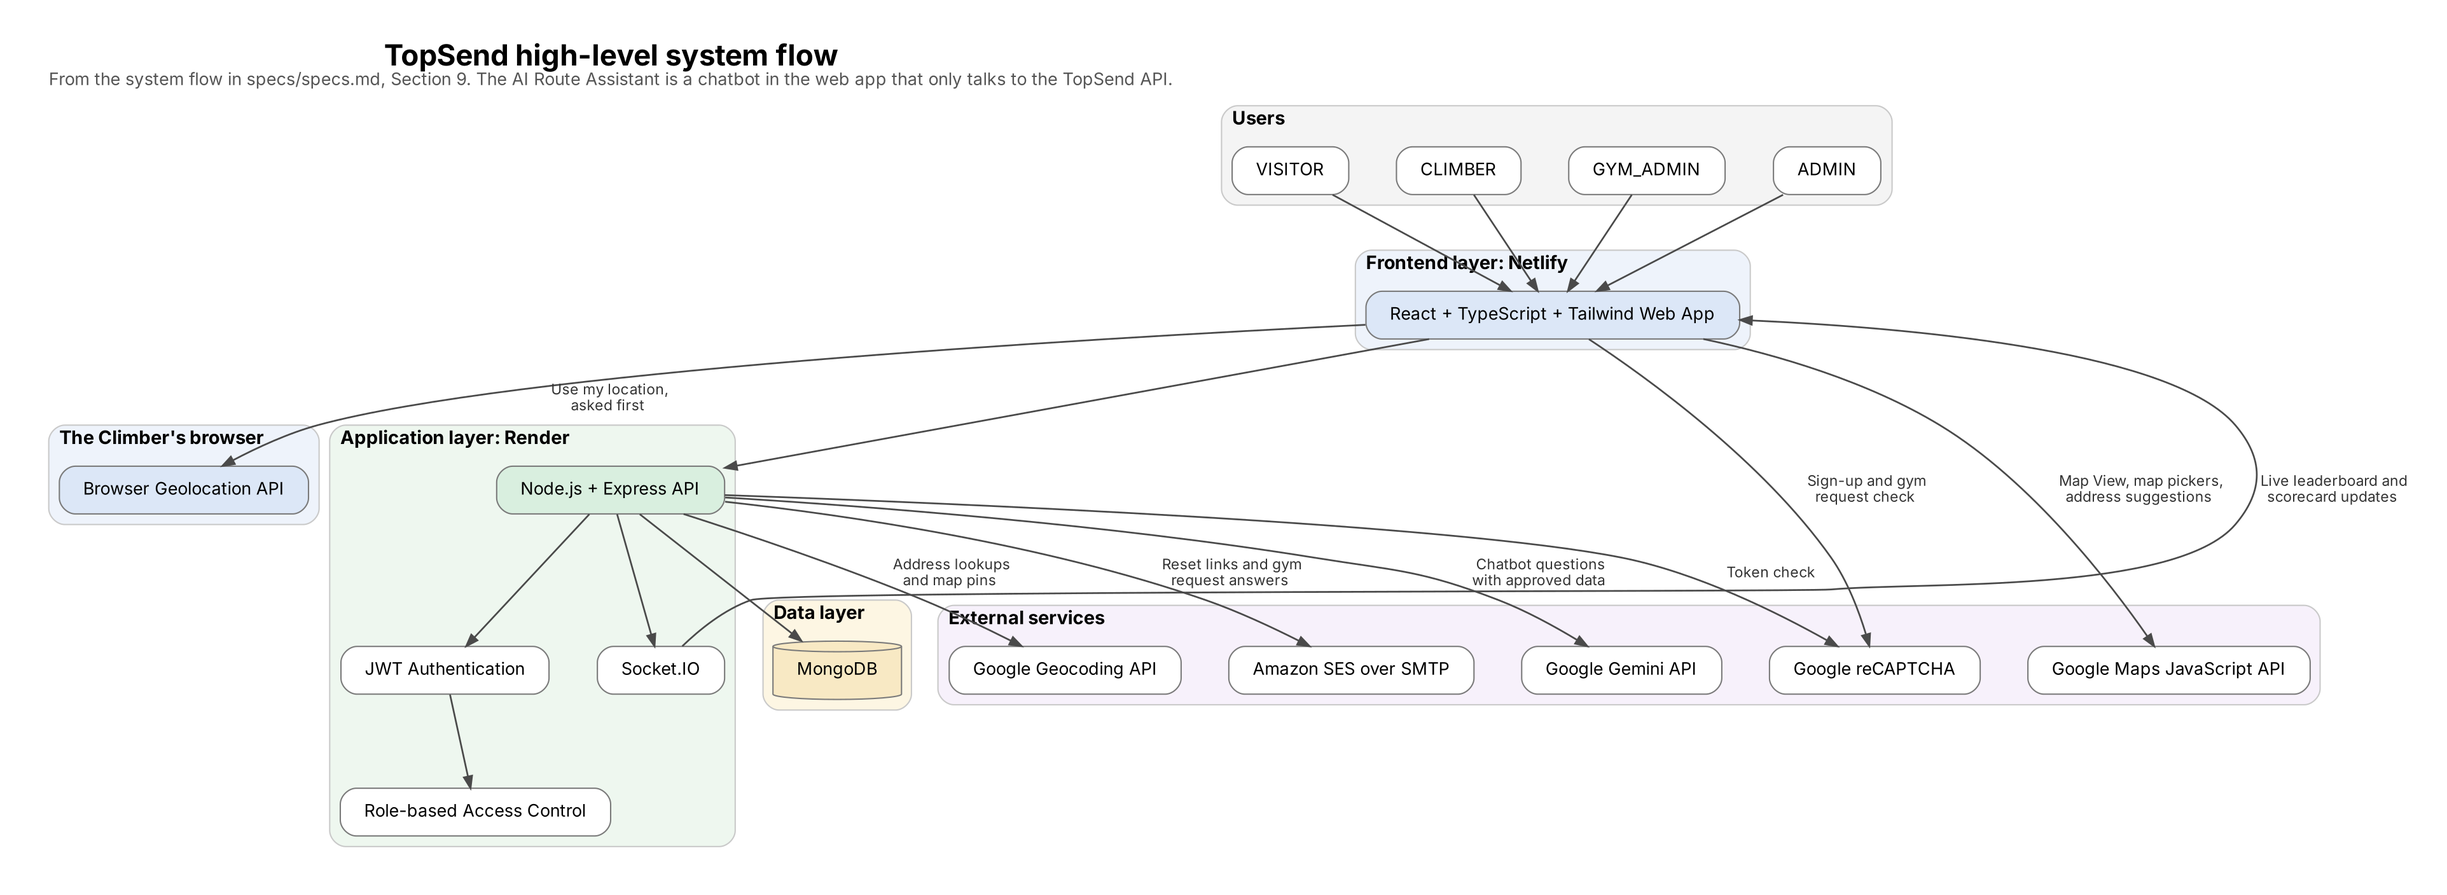
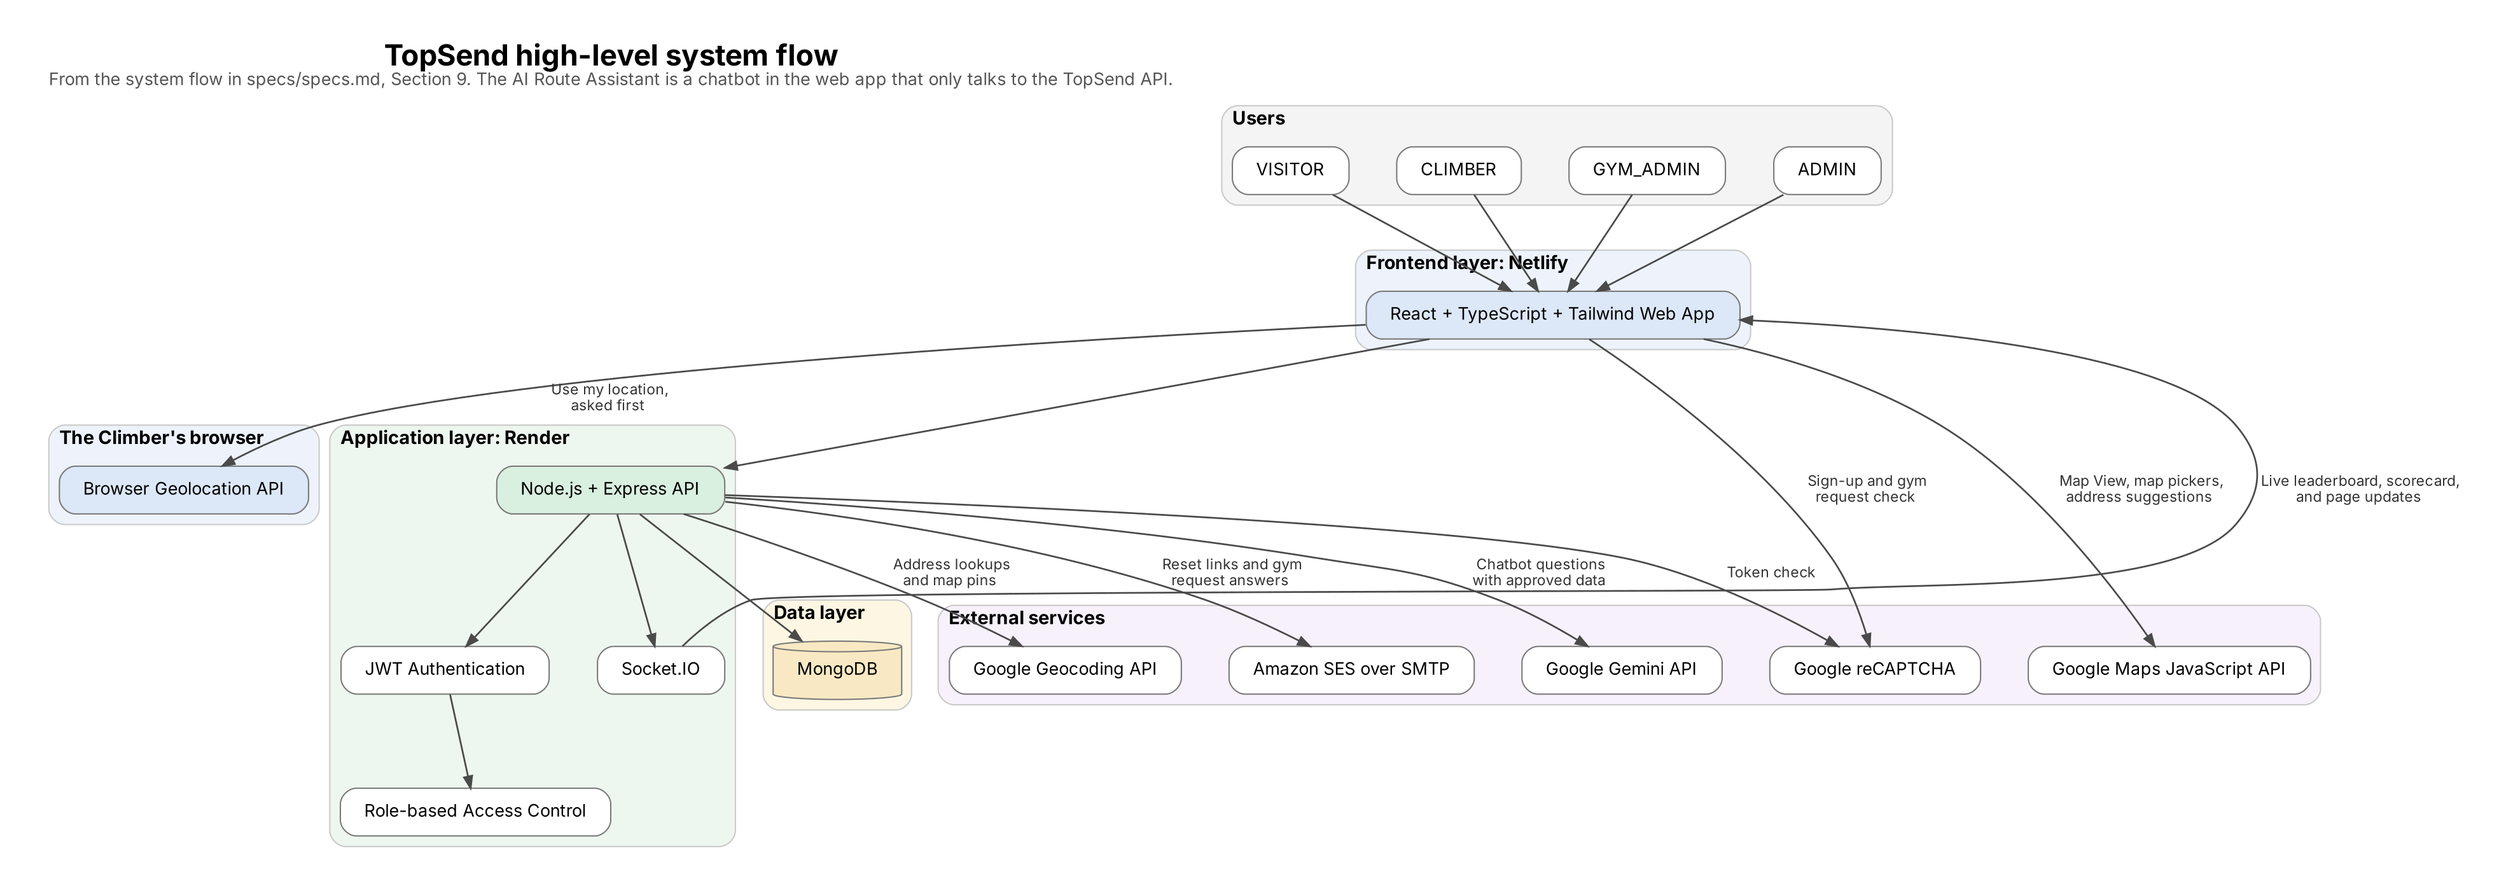
docs: specify the live page updates and the pages without a Refresh button (#224)

diff --git a/specs/specs.md b/specs/specs.md
@@ -268,7 +268,7 @@ The project has 12 approved functional requirements, aligned to the requirement 
 | NR-001 | Performance | TopSend pages and normal user actions shall respond within acceptable times during regular use. | Page-load and common action tests | 95% of page loads and normal actions within 3 seconds, excluding unavailable third-party services | 95% |
 | NR-002 | Security | Authenticated features and user credentials shall be protected from unauthorized access. | Authorization, password, and location checks | 100% of protected-page authorization tests pass; passwords are not stored in plain text; a Climber's current location is only used for the search that asks for it, and is never stored, logged, or put in the page address | 100% |
 | NR-003 | Google Maps reliability | The Competition Map View shall remain usable even when Google Maps data is loading or unavailable. | Map service failure simulation | The map shall display markers or a clear loading/error state within 5 seconds; the list view remains available | 99% |
-| NR-004 | Data integrity | Competition registrations, official results, scores, and rankings shall remain accurate when saved or when a save fails. | Save/refresh and transaction tests | No partial or duplicate record after a failed save; leaderboard and scorecard values match the latest valid official results | 99.9% |
+| NR-004 | Data integrity | Competition registrations, official results, scores, and rankings shall remain accurate when saved or when a save fails, and every logged-in page shall show the latest saved data without a refresh button. | Save, live update, and transaction tests | No partial or duplicate record after a failed save; leaderboard and scorecard values match the latest valid official results; after a save, every open page that shows the changed data, for a user allowed to see it, reloads it by itself within 3 seconds, keeps showing what it had while it reloads, and never reloads over input that isn't saved | 99.9% |
 | NR-005 | Usability | TopSend shall remain usable on common desktop, tablet, and mobile screen sizes. | Responsive layout testing | Core pages shall work at around 360px mobile, 768px tablet, and 1440px desktop without horizontal scrolling. On phones (screens under 768px wide), the logged-in pages show their text and controls 15% smaller than on larger screens, with no text under 11px and form fields at 16px. On screens 768px wide and wider, every logged-in user can collapse the sidebar to a slim strip with the TopSend mark and open it again, and the browser keeps that choice until they log out. On phones, the sections that come before a page's main content fold into a bar that opens and closes: the competition's details and the Climber's totals above the scorecard sheet, the sheet's own details, and the competition's details above a leaderboard's standings. They start folded, the browser keeps each choice until the user logs out, and nothing folds on screens 768px wide and wider. The circles a Climber taps to record attempts are at least 44px wide and tall on a phone | 100% |
 | NR-006 | Maintainability / error handling | Application errors shall be handled consistently and logged without exposing sensitive technical details to users. | Error handling and logging checks | User-facing errors are readable; server logs include timestamps and operation context; stack traces and sensitive technical details are not exposed to normal users | 100% |
 
@@ -293,6 +293,8 @@ The project has 12 approved functional requirements, aligned to the requirement 
 - A Climber records their own results from the competition's start time until its end time. After the end time, the server refuses them, and their results are final.
 - A Climber's attempts on a problem are recorded on its circles, one for each attempt the competition allows. Marking a circle counts that attempt and every one before it. A top is always the last marked circle, and a problem with a top takes no more attempts until the Climber clears the top.
 - From a published competition's end time, a Climber's scorecard is closed for good: the server refuses it, the page moves the Climber to the final leaderboard, and going back, opening its address, or reloading doesn't bring it back. The leaderboard stays open, and a Climber's final leaderboard shows every division. A Climber is warned 15 minutes and 5 minutes before the end. A cancelled competition's scorecard stays readable, since it has no final results.
+- No page has a refresh button. The scorecard and the leaderboard update live, and every other logged-in page reloads what it shows by itself when a save changes it. The server only tells a page what kind of data changed, never the data, and only tells the roles whose pages show it, so the page reads the data again through the API, with the user's own access. A page never reloads over input that isn't saved, or while a change is being confirmed or saved: it waits, and reloads once it's free. When a save can't be confirmed, its message offers to load the saved data.
+- A read a page makes by itself, after a change was announced, doesn't count as the user's activity, so a session left open on a page still ends after 60 minutes without activity.
 - The AI Route Assistant is only offered inside the pages listed in FR-012. It gets the least data the page's questions need, and never a name, an email, an ID, a password, a token, an API key, or a setting of the server.
 - The onboarding tutorial opens by itself once per account, not once per device: the account remembers when its user finished or skipped it. An account created before the tutorial existed sees it once, the next time its user opens TopSend. Reopening it from Onboarding tips changes nothing.
 
@@ -416,7 +418,7 @@ TopSend uses a three-layer structure:
 
 - JWT-based authentication protects protected routes and session handling.
 - RBAC restricts access to ADMIN, GYM_ADMIN, and CLIMBER features based on the assigned role.
-- Socket.IO sends real-time updates to live leaderboards and scorecards.
+- Socket.IO sends real-time updates to live leaderboards and scorecards, and tells every logged-in page what kind of data changed, so the page reloads it through the API. That message carries no data, and a role is only told about the data its pages show.
 - The browser loads the Google Maps JavaScript API with the browser key, for the Map View, the map pickers, and address suggestions. The backend calls Google's Geocoding API with the server key, for address lookups and for pinning competitions whose gym has no map pin.
 - When a Climber chooses Use my location on Discover competitions, the browser's Geolocation API asks them first. The web app rounds the location to about 110 m, uses it for up to 10 minutes, keeps it only in memory until the browser is asked again or the Climber logs out, and sends it only with that search. It's never stored, logged, or put in the page address, and the API answers competition searches with `Cache-Control: no-store`, so browsers don't keep them either.
 - Google reCAPTCHA checks Climber sign-up and the gym request form: the browser shows the check, and the backend verifies its token.
@@ -458,7 +460,7 @@ flowchart TB
     API --> AUTH
     AUTH --> RBAC
     API --> SOCKET
-    SOCKET -->|Live leaderboard and scorecard updates| UI
+    SOCKET -->|Live leaderboard, scorecard, and page updates| UI
     API --> DB
     API -->|Address lookups and map pins| GEO
     API -->|Token check| CAPTCHA
@@ -738,6 +740,7 @@ A VISITOR has no account, so VISITOR is never stored as a role.
 - The AI Route Assistant is reached only through the TopSend API, after the role and access check, and it's never given credentials, tokens, keys, or another user's private data.
 - A Climber's scorecard, the leaderboard, and the AI Route Assistant are refused by the server until the competition's start time, not only hidden in the web app. A result a Climber sends after the competition's end time is refused the same way, and so are their scorecard, its live updates, and its chatbot.
 - A Climber can only record their own results: the server takes the Climber from the access token, never from the request.
+- A live page update says only what kind of data changed. The page reads the data through the API, which checks the user's access again, so the update never shows a user anything they can't open. A connection is closed when its login ends.
 
 ## 14. Review Gates
 
@@ -777,7 +780,8 @@ This file is the approved baseline for implementation planning and should be rev
 | A Climber records attempts by tapping circles, one for each attempt the competition allows: red for a failed attempt, green for the top, and empty when unused. They replace the Add attempt and Undo buttons, and tapping the last marked circle again clears it | FR-011, Section 7, AC-017 | US-031 |
 | The scorecard sheet shows 10 problems at a time, with a button for each range of 10 problems, and still prints every problem | FR-011, AC-017 | US-031 |
 | On phones, the sections above a page's main content fold into a bar that opens and closes: above the scorecard sheet, in the sheet's own details, and above the leaderboard's standings. Nothing folds on larger screens | FR-011, NR-005, AC-016, AC-017 | US-020, US-031, US-032 |
-| The scorecard and the leaderboard have no refresh button, since they update live | FR-011, AC-016, AC-017 | US-020, US-031, US-032 |
+| No page has a refresh button. The scorecard and the leaderboard update live, and every other logged-in page reloads by itself when a save changes what it shows, without reloading over input that isn't saved. A save that can't be confirmed offers to load the saved data in its message | FR-011, NR-004, Section 7, Section 9, AC-016, AC-017 | US-003 to US-011, US-013 to US-022, US-024 to US-032, US-035 |
+| A read a page makes by itself doesn't count as the user's activity, so the 60-minute logout still happens on a page left open | Section 7, Section 13 | US-001 |
 | The onboarding tutorial explains the circles to Climbers, and on phones the sections that fold | AC-023 | US-037 |
 
 ### Version 1.2 (2026-11-10): the documentation follows the built system

diff --git a/specs/contracts/events.md b/specs/contracts/events.md
@@ -4,7 +4,7 @@
 
 TopSend relies on authoritative event records to drive registration, result entry, live rankings, and AI explanations. These event contracts are intentionally strict to protect score integrity and to keep AI advisory behavior separate from official competition decisions.
 
-TopSend doesn't publish or store these events as records. The live updates of sections 8 and 9 are built, as Socket.IO messages to the pages that show standings and scorecards, and the AI request of section 11 is built as a REST request. The other contracts describe what an event would carry if one were added. Until then, the server's log lines record what happened, such as a login, a gym request decision, or a saved result.
+TopSend doesn't publish or store these events as records. The live updates of sections 8, 9, and 10 are built, as Socket.IO messages to the pages that show standings, scorecards, and other saved data, and the AI request of section 12 is built as a REST request. The other contracts describe what an event would carry if one were added. Until then, the server's log lines record what happened, such as a login, a gym request decision, or a saved result.
 
 ## 2. Event: UserLoggedIn
 
@@ -207,7 +207,33 @@ Built as Socket.IO events on the `/scorecard` namespace (US-031), in server/src/
 - Show a Climber their own results as soon as they change, without a page refresh.
 - Close the scorecard for good at the competition's end.
 
-## 10. Event: RouteStatisticsCalculated
+## 10. Event: PageDataChanged
+
+Built as Socket.IO events on the `/updates` namespace, in server/src/realtime/pageUpdateSocket.js. Every logged-in page that shows saved data follows it, so no page needs a refresh button.
+
+- A client connects with the access token of a System Administrator, a Gym Administrator, or a Climber. Without a token, or with an invalid or expired one, the connection is refused with `{ "error", "message" }` in the error's `data` (`NOT_AUTHENTICATED`, `TOKEN_EXPIRED`, or `SESSION_EXPIRED`), so the page can renew its token once and connect again. The client sends no events of its own.
+- After a write answers successfully, server/src/middleware/announceChanges.js notes what it changed, by its path (interfaces.md, section 2). Changes within 300 ms of each other are sent together, each once:
+
+```json
+{
+  "changes": [
+    { "topic": "competitions | results | gyms | users | gym-requests | settings", "competitionId": "string" }
+  ]
+}
+```
+
+- The event is `updates:changed`. A change carries no data, only what kind of data changed, so the page reads the data again through the API, which checks again what the user may see.
+- Each topic is sent only to the roles whose pages show it: `competitions` and `gyms` to every role, `results` to Gym Administrators, and `users`, `gym-requests`, and `settings` to System Administrators.
+- `competitionId` names the competition a change is about, for System and Gym Administrators, so only the pages about it reload. A Climber isn't told which, since the competition may be a draft they can't see.
+- A connection's login is checked again before a change is sent, at most once a minute. When it has ended, the client gets `updates:closed` with `{ "error", "message" }` and is disconnected.
+- A page reloads at once for the first change it shows, then at most once a second. It waits while it holds input that isn't saved, or while a change is being confirmed or saved, and reloads once it's free. After the connection drops and comes back, every page reloads, since changes may have been missed.
+- A page's own reads send the header `X-TopSend-Automatic: 1`, so they don't count as the user's activity (interfaces.md, section 1.1).
+
+### Purpose
+- Show every logged-in user the latest saved data without a refresh button.
+- Never send data over the connection, so a page only ever shows what the API lets that user read.
+
+## 11. Event: RouteStatisticsCalculated
 
 Not published as an event: a route's statistics are calculated from its official results whenever Route statistics or the AI Route Assistant asks for them (interfaces.md, sections 1.8 and 1.14). If the event is added, it would carry:
 
@@ -231,7 +257,7 @@ Not published as an event: a route's statistics are calculated from its official
 - Provide competition-derived route metrics to the AI route assistant and organizer dashboards.
 - Ensure AI answers are rooted in official results and not in user speculation.
 
-## 11. Event: AiRouteRecommendationRequested
+## 12. Event: AiRouteRecommendationRequested
 
 Built as REST requests from the chatbot inside the scorecard, leaderboard, Route statistics, and Result entry pages (US-023, US-033), not as a published event: `POST /api/competitions/:competitionId/route-assistant` for a Climber and `POST /api/gym-admin/competitions/:competitionId/route-assistant` for a Gym Administrator (interfaces.md, section 1.14). Each request carries what this event describes:
 
@@ -262,11 +288,12 @@ Built as REST requests from the chatbot inside the scorecard, leaderboard, Route
 - Allow the system to respond to route explanations and recommendations without modifying official results or grades.
 - Give the AI the least data the page's questions need, and nothing that identifies another person.
 
-## 12. Event invariants
+## 13. Event invariants
 
 - Official result or ranking events must always be generated from persisted official records.
 - AI events must be read-only and cannot trigger write operations to official result or route-grade data.
 - An AI request is answered only after the role and access check, and before a competition's start time a Climber's request is refused like their scorecard and leaderboard.
 - Leaderboard and scorecard updates must be recomputed after every official result save, change, or deletion.
+- A page update must name only the kind of data that changed, never the data, and must reach only the roles whose pages show it.
 - Route statistics events must be derived from confirmed competition result data.
 - All event payloads must carry timestamps and stable identifiers for traceability.

diff --git a/specs/contracts/interfaces.md b/specs/contracts/interfaces.md
@@ -50,7 +50,7 @@ After 10 failed attempts for one email within 15 minutes, the email is locked fo
 }
 ```
 
-By default, a session ends after 60 minutes without activity or 12 hours after logging in, whichever comes first. Requests the user makes and POST /api/session/ping count as activity. Refreshing the access token doesn't.
+By default, a session ends after 60 minutes without activity or 12 hours after logging in, whichever comes first. Requests the user makes and POST /api/session/ping count as activity. Refreshing the access token doesn't, and neither does a read a page makes by itself (see "Reads a page makes by itself" below).
 
 #### GET /api/auth/csrf
 
@@ -99,6 +99,10 @@ Needs the access token. The client sends it while the user is active, at most ev
 ```
 
 `idleSeconds` is how long ago the user was last active, a whole number from 0 (the default) up to 7 days. The session is kept going from that moment, so a ping never makes it last longer than the user's activity allows. It answers `{ "expiresIn": 3600, "limitReached": false }`, like `session` in GET /api/auth/me, and fails like it, or with 400 `VALIDATION_ERROR` for a bad `idleSeconds`.
+
+#### Reads a page makes by itself
+
+When a live page update says that data a page shows changed (events.md, section 10), the page reads it again with the header `X-TopSend-Automatic: 1`. Such a GET request is answered as usual, but it doesn't count as the user's activity, so a session left open on a page still ends 60 minutes after the user's last action. The header changes nothing on any other method: a write always counts as activity.
 
 #### GET /api/users/me/onboarding
 
@@ -2244,7 +2248,7 @@ GET /api/gyms/{gymId}/admin-candidates lists the active GYM_ADMIN accounts with 
 
 ## 2. Shared service interfaces
 
-The controllers call the services in server/src/services. Access checks are middleware that run first: requireAuth checks the access token, requireRole the role, and requireGymAdmin loads the active gyms of the logged-in Gym Administrator. Every Gym Admin service takes those `gyms` and only finds competitions at them.
+The controllers call the services in server/src/services. Access checks are middleware that run first: requireAuth checks the access token, requireRole the role, and requireGymAdmin loads the active gyms of the logged-in Gym Administrator. Every Gym Admin service takes those `gyms` and only finds competitions at them. The announceChanges middleware notes what each successful write changed, by its path, for the live page updates (events.md, section 10). A write it has no rule for announces every topic but results.
 
 | Service | Functions | Stories |
 | --- | --- | --- |
@@ -2285,6 +2289,7 @@ The controllers call the services in server/src/services. Access checks are midd
 | resultScoring | `rulesFor(scoring, route)`, `rescoreResults(competitionId, { routeId })`, which scores a competition's results again when its scoring or a problem's points change, `mostAttemptsRecorded(competitionId)`, `hasOfficialResults(competitionId, climberId)` | US-018, US-019 |
 | leaderboardService | `getManagedLeaderboard(gyms, competitionId, { divisionId })`, `getClimberLeaderboard(climberId, competitionId, { divisionId })`, `getPublicLeaderboard(competitionId, { divisionId })`, `leaderboardAccess(viewer, competitionId)`, `calculateLeaderboard(competitionId)`, `presentLeaderboard(board, access)` | US-020, US-032 |
 | leaderboardEvents | `leaderboardChanged(competitionId, reason, { climberId })`, which the live leaderboards and scorecards listen to through `onLeaderboardChanged(listener)` | US-020, US-031 |
+| pageUpdateEvents | `pageChanged(topic, { competitionId })`, which the live page updates listen to through `onPageChanged(listener)` | US-003 to US-011, US-013 to US-022, US-024 to US-032, US-035 |
 | scorecardService | `getMyScorecard(climberId, competitionId, { untilEnd })` | US-031 |
 | routeStatisticsService | `getRouteStatistics(gyms, competitionId, routeId)` | US-022 |
 | routeAssistantService | `getRouteAssistant(gyms, competitionId, ai, { divisionId })`, `askRouteAssistant(request)`, `routeAssistantData(gyms, competitionId, options)`, `buildRouteAssistantPrompt(data, question, { page, history })` | US-023 |
